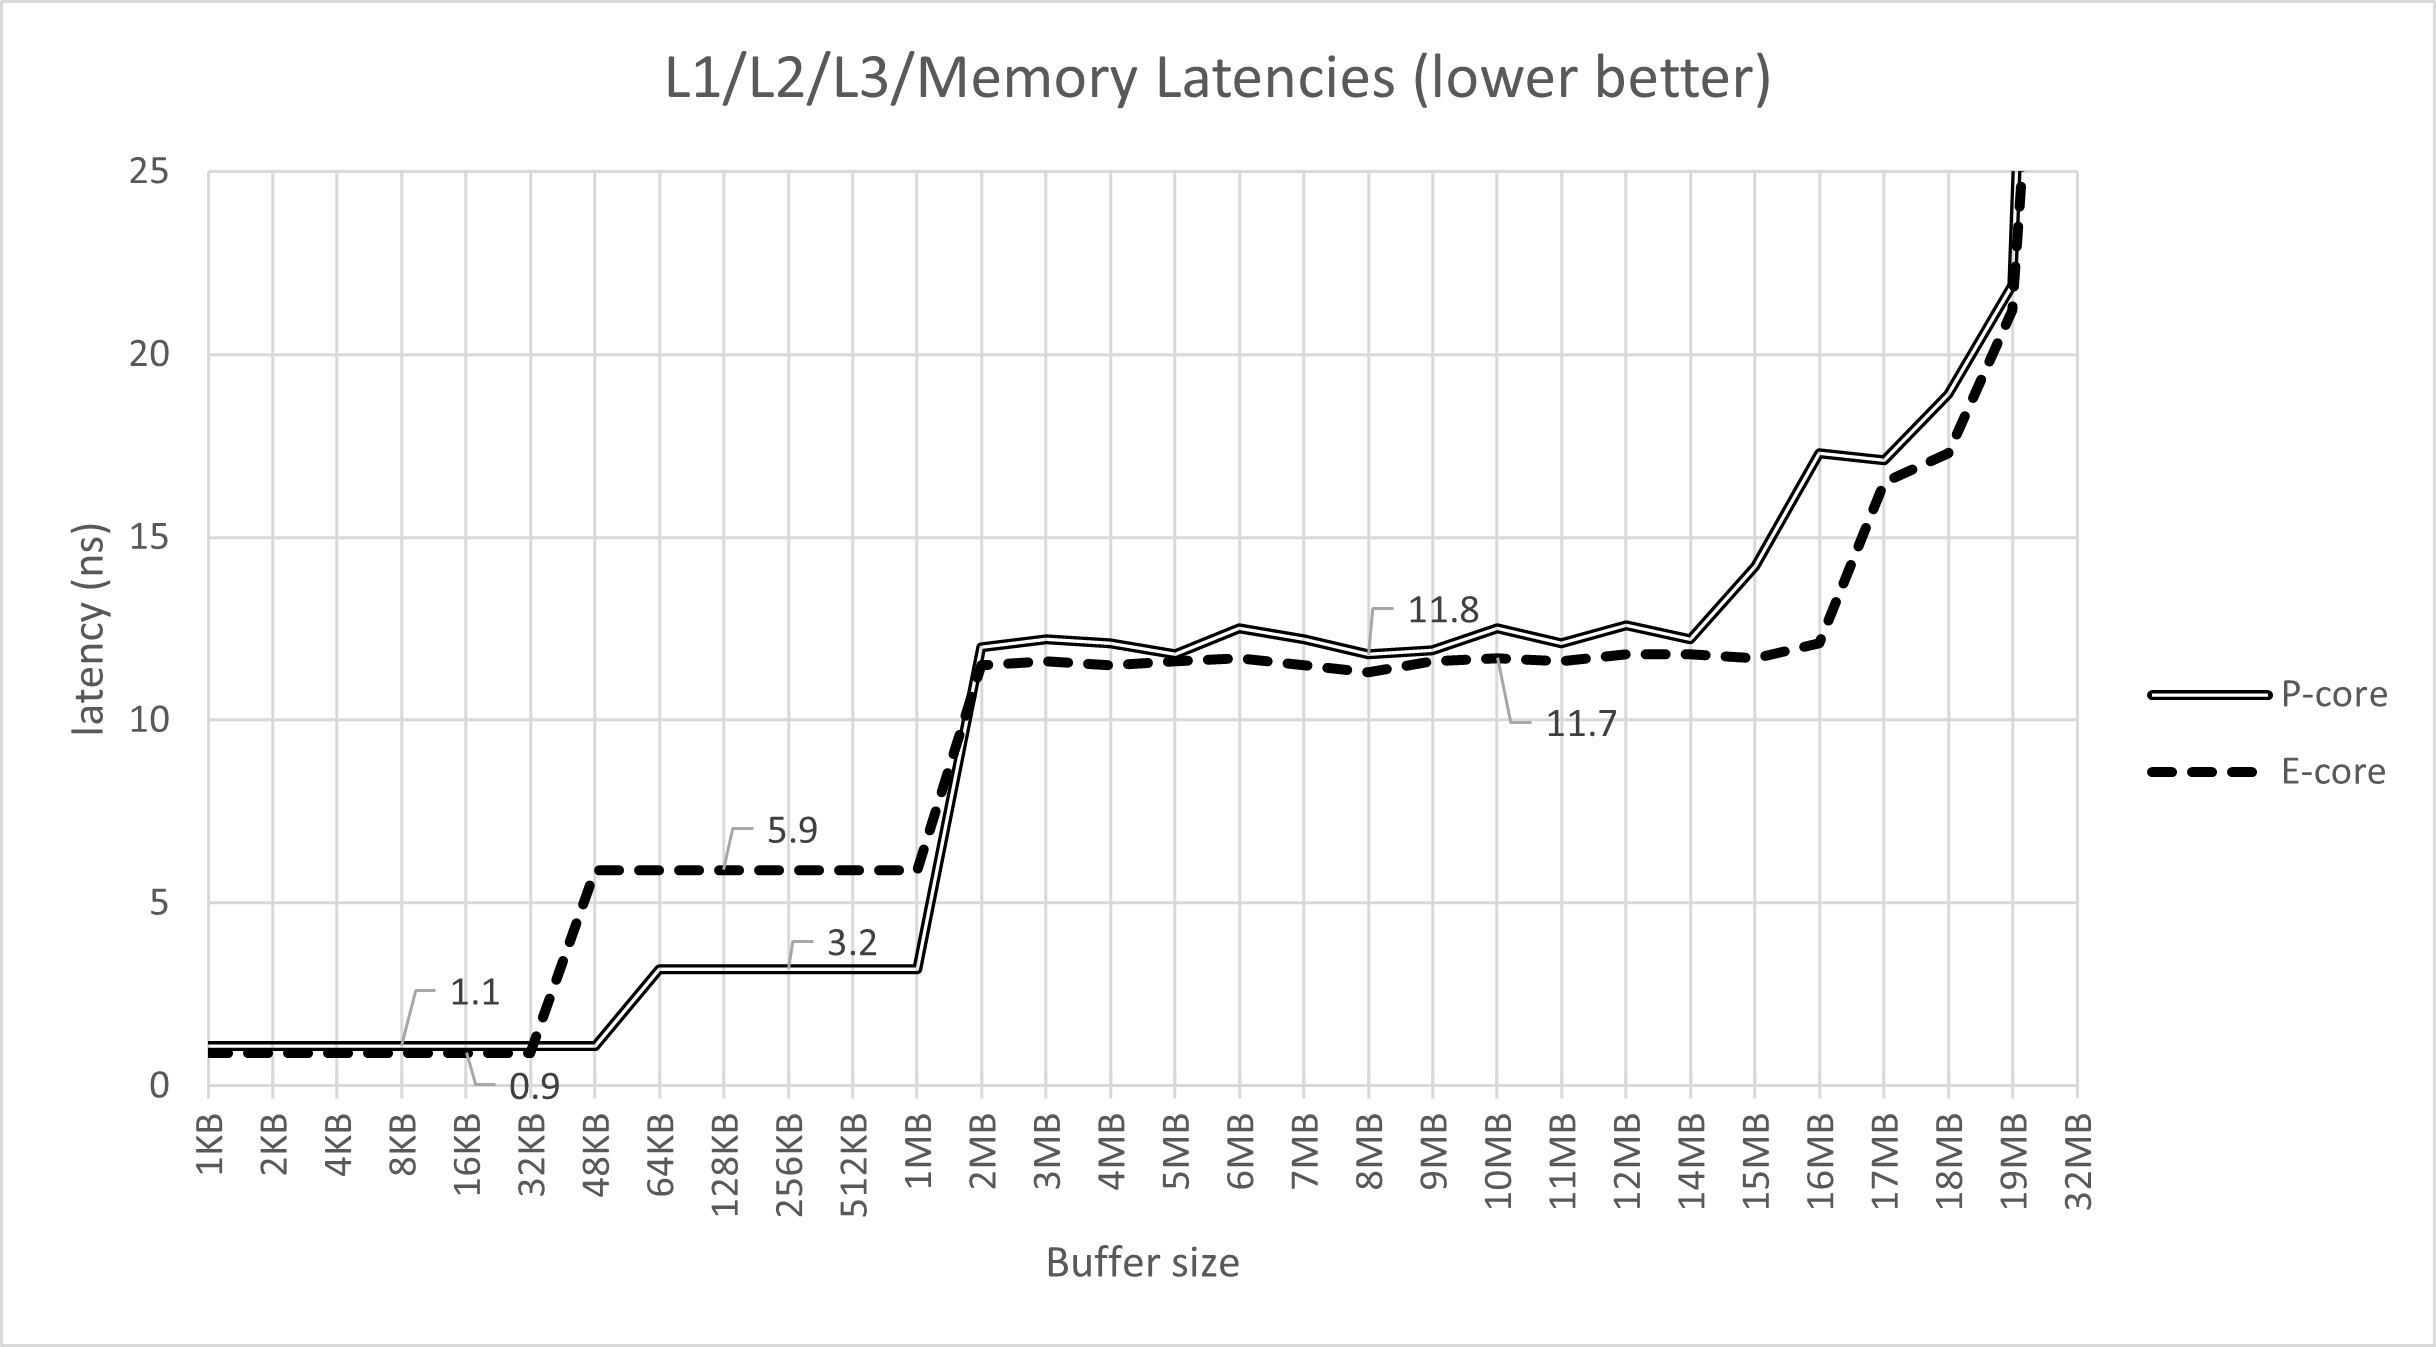
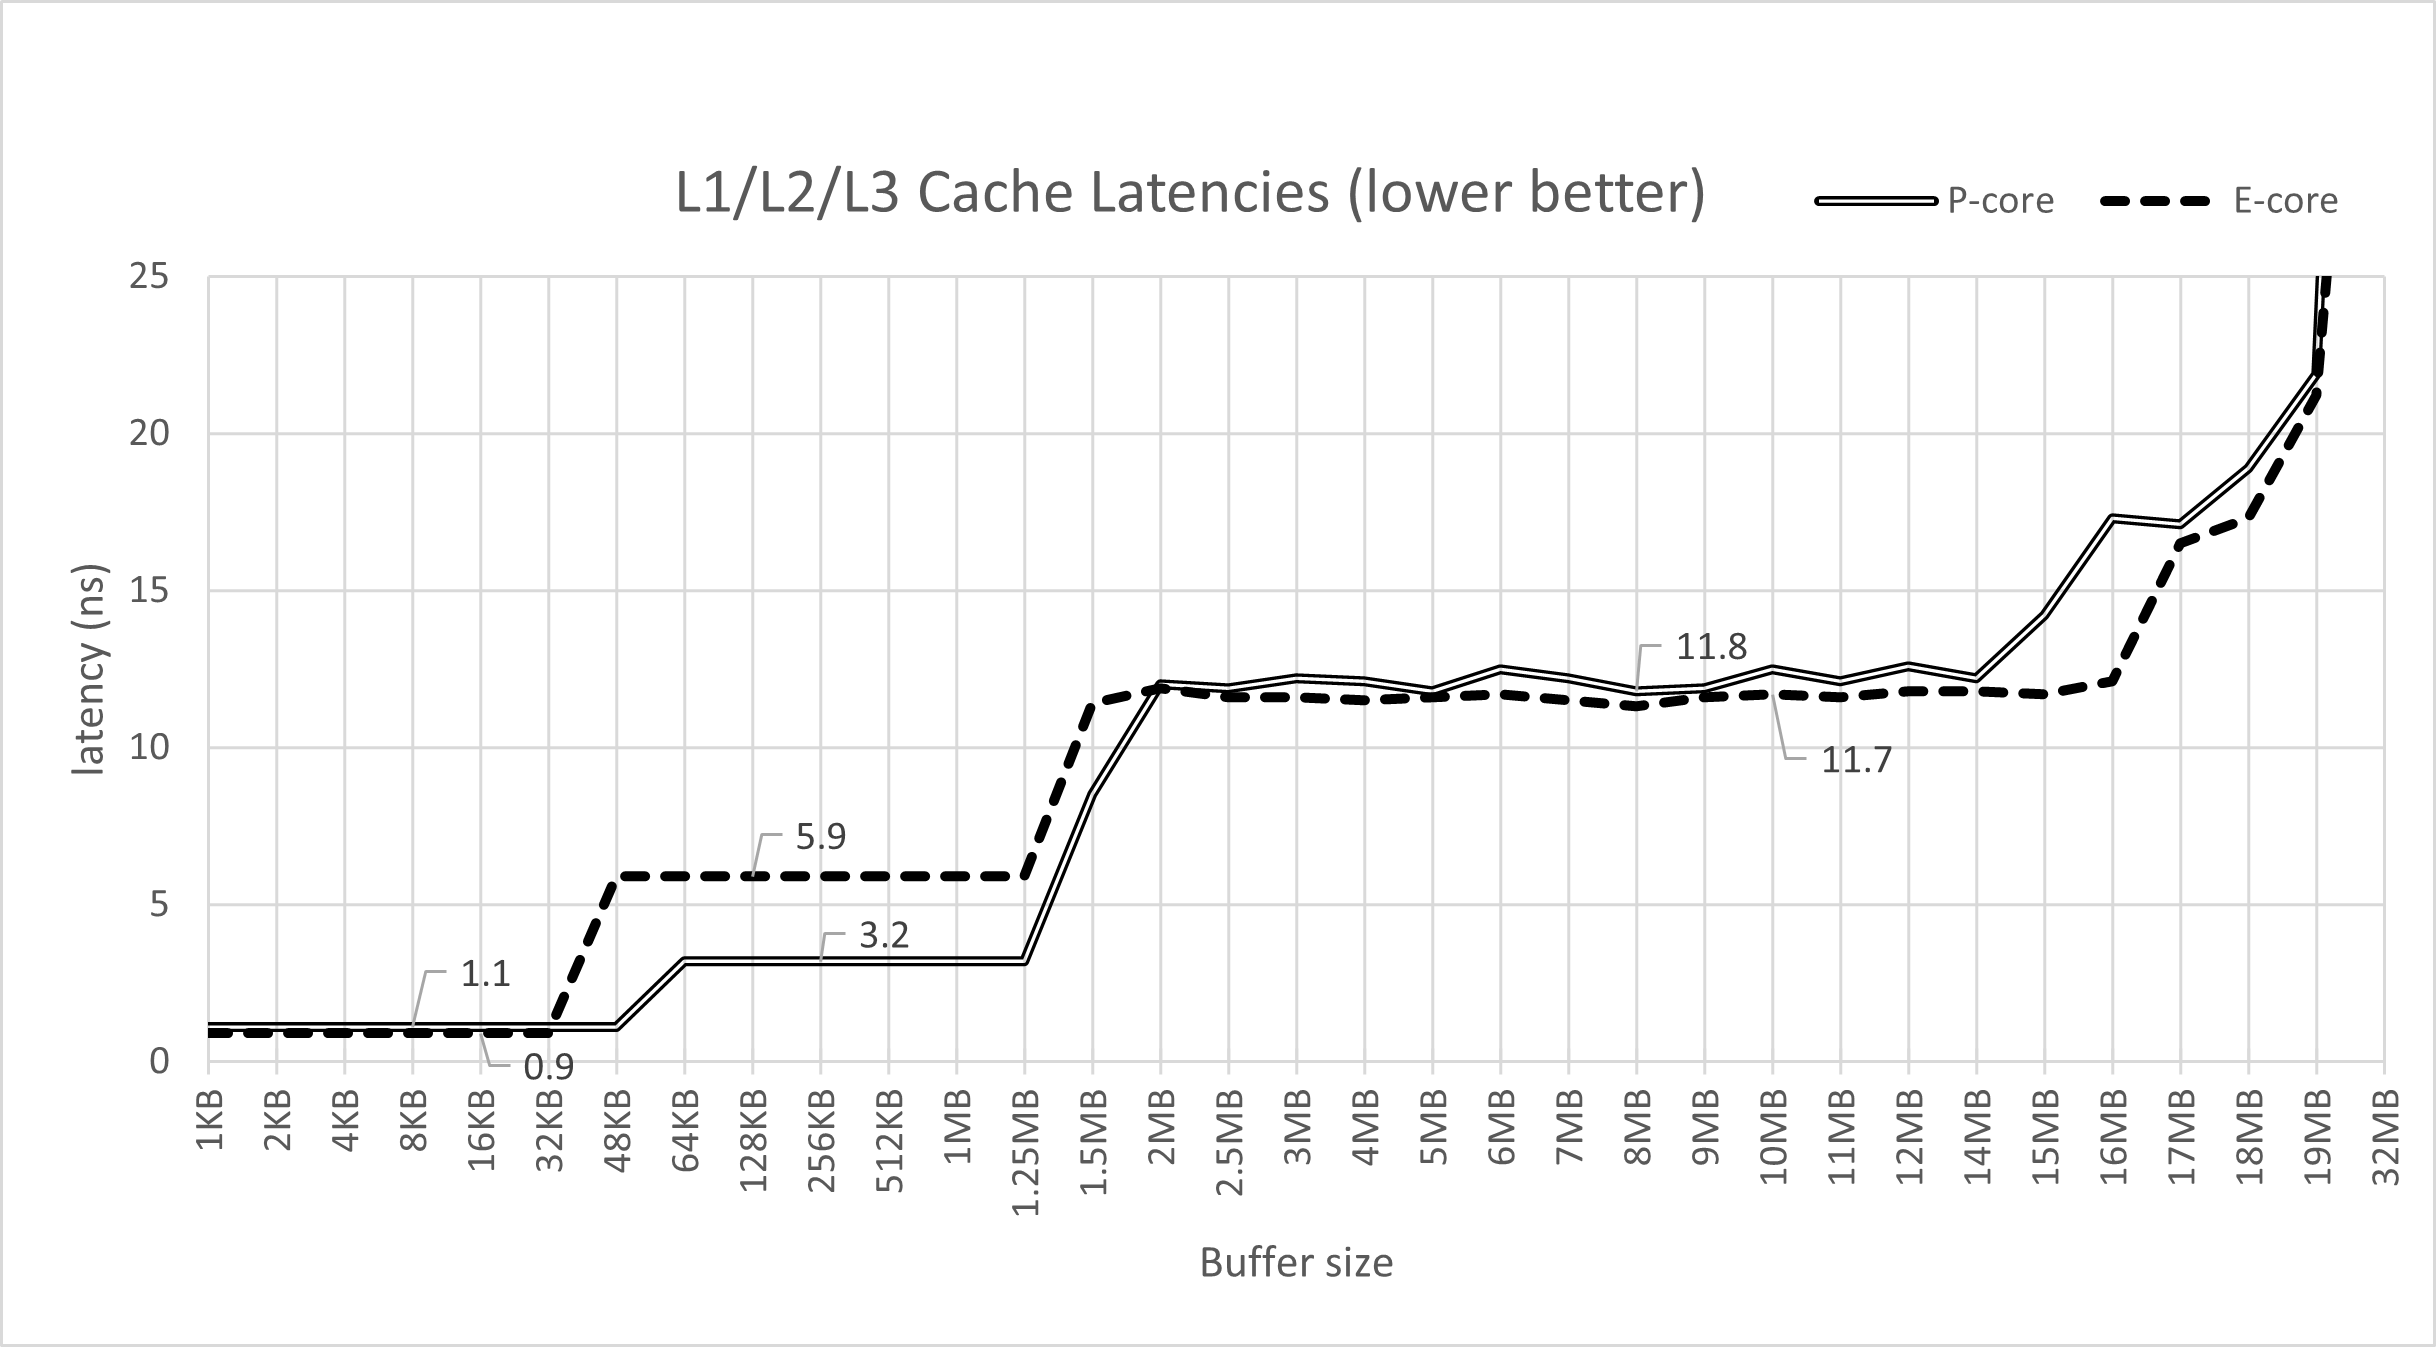
Working on mem lat and bw section

Changed region(s): [[0.0312, 0.1247, 0.9984, 0.9666], [0.2808, 0.0312, 0.7176, 0.0935]]

diff --git a/chapters/4-Terminology-And-Metrics/4-10 Memory Bandwidth.md b/chapters/4-Terminology-And-Metrics/4-10 Memory Bandwidth.md
@@ -6,20 +6,26 @@ One of the tools that can become helpful on x86 platforms is Intel Memory Latenc
 
 We will only focus on a subset of metrics, namely idle read latency and read bandwidth. Let's start with the read latency. Idle means that while we do the measurements, the system is idle. This will give us the minimum time required to fetch data from memory system components, but when the system is loaded by other "memory-hungry" applications, this latency increases as there may be more queueing for resources at various points. MLC measures idle latency by doing dependent loads (aka pointer chasing). A measuring thread allocates a buffer and initializes it such that each cache line (64-byte) is pointing to another line. By appropriately sizing the buffer, we can ensure that almost all the loads are hitting in certain level of cache or memory. 
 
-Our system under test is an Intel Alderlake box with Core i7-1260P CPU and 16GB DDR4 @ 2400 MT/s single channel memory. The processor has 4P (Performance) hyperthreaded and 8E (Efficient) cores. Every P-core has 48KB of L1d cache and 1.25MB of L2 cache. Every E-core has 32KB of L1d cache, four E-cores form a cluster that has access to a shared 2MB L2 cache. All cores in the system are backed by a 18MB L3-cache. If we use a 10MB buffer, we can be certain that repeated accesses to that buffer would miss in L2 but hit in L3.
-
-Here is the example command we use to measure 
+Our system under test is an Intel Alderlake box with Core i7-1260P CPU and 16GB DDR4 @ 2400 MT/s single channel memory. The processor has 4P (Performance) hyperthreaded and 8E (Efficient) cores. Every P-core has 48KB of L1d cache and 1.25MB of L2 cache. Every E-core has 32KB of L1d cache, four E-cores form a cluster that has access to a shared 2MB L2 cache. All cores in the system are backed by a 18MB L3-cache. If we use a 10MB buffer, we can be certain that repeated accesses to that buffer would miss in L2 but hit in L3. Here is the example `mlc` command:
 
 ```bash
 $ ./mlc --idle_latency -c0 -L -b10m
 Intel(R) Memory Latency Checker - v3.10
-Command line parameters: --idle_latency -c10 -L -b10240 
+Command line parameters: --idle_latency -c0 -L -b10m
 
 Using buffer size of 10.000MiB
 *** Unable to modify prefetchers (try executing 'modprobe msr')
 *** So, enabling random access for latency measurements
-Each iteration took 29.1 base frequency clocks (	11.7	ns)
+Each iteration took 31.1 base frequency clocks (	12.5	ns)
 ```
+
+The option `--idle_latency` measures read latency without loading the system. MLC has the `--loaded_latency` option to measure latency when there is memory traffic generated by other threads. The option `-c0` pins the measurement thread to logical CPU 0, which is on a P-core. The option `-L` enables large pages to limit TLB effects in our measurements. The option `-b10m` tells MLC to use a 10MB buffer, which will fit in L3 cache on our system.
+
+The chart on @fig:MemoryLatenciesCharts shows read latencies of L1, L2, and L3 caches. There are four different regions on the chart. The first region on the left from 1KB to 48KB buffer size corresponds to L1d cache, which is private to each physical core. We can observe 0.9ns latency for E-core and a slightly higher 1.1ns for P-core. Also, we can use this chart to confirm the cache sizes. Notice how E-core latency starts climbing after a buffer size goes above 32KB but E-core latency stays constant up to 48KB. That confirms that L1d cache size in E-core is 32KB, and in P-core it is 48KB.
+
+The second region shows the L2 cache latencies, which for E-core is almost twice higher than for P-core (5.9ns vs. 3.2ns). For P-core the latency increases after we cross 1.25MB buffer size, which is expected. But we expect E-core latency to stay the same until 2MB, which is not happening in our measurements.
+
+The third region from 2MB up to 14MB corresponds to L3 cache latency, which is roughly 12ns for both types of cores. The total size of L3 cache that is shared between all cores in the system is 18MB. Interestingly, we start seeing some unexpected dynamics starting from 15MB, not 18MB. Most likely it has to do with some accesses miss in L3 and require going to the main memory. The fourth region corresponds to memory latency, only the beginning of it is shown on the chart. After we cross the 18MB boundary, the latency climbes very steeply and starts to level off at 45ns for E-core and 90ns for P-core.
 
 ![L1/L2/L3 cache read latencies on Intel Core i7-1260P, measured with the mlc tool, large pages enabled.](../../img/terms-and-metrics/MemLatencies.png){#fig:MemoryLatenciesCharts width=100% }
 
@@ -30,6 +36,20 @@ TODO:
 - Give examples
 - Describe Intel mlc (works on Intel and AMD), give alternatives for ARM
 - Give output of mlc and comment it
+- Compare the output with maximums from Intel Advisor
+
+Using a similar technique we can measure bandwidth of various components of the memory hierarchy.
+
+![Block diagram of the memory hierarchy of Intel Core i7-1260P and external DDR4 memory.](../../img/terms-and-metrics/MemBandwidthAndLatenciesDiagram.png){#fig:MemBandwidthAndLatenciesDiagram width=100% }
+
+
+- Notice, that we measure bandwidth in GB/s, thus it also depends on the frequency at which cores are running. That's why in reality, those numbers may be significantly lower. For example, L1 bw for P-core is X, when running solely on the system at full Turbo frequency. But the L1 bw for P-core may drop to 0.75X, when the system is fully loaded.
+
+
+If you constantly analyze performance on a single platform, it is a good idea to memorize latencies and bandwidth of various components of the memory hierarchy or have them handy. It helps to establish the mental model for a system under test which will aid your further performance analysis.
+
+[^1]: Intel MLC tool - [https://www.intel.com/content/www/us/en/download/736633/intel-memory-latency-checker-intel-mlc.html](https://www.intel.com/content/www/us/en/download/736633/intel-memory-latency-checker-intel-mlc.html)
+
 
 ```bash
 Measuring Peak Injection Memory Bandwidths for the system
@@ -42,19 +62,3 @@ ALL Reads        :      34557.4
 1:1 Reads-Writes :      29376.2
 Stream-triad like:      31875.7
 ```
-
-
-
-Memory latency: P-core (89.7 ns), E-core (44.9 ns)
-
-Using similar technique we can measure bandwidth of various components of the memory hierarchy.
-
-![Block diagram of the memory hierarchy of Intel Core i7-1260P and external DDR4 memory.](../../img/terms-and-metrics/MemBandwidthAndLatenciesDiagram.png){#fig:MemBandwidthAndLatenciesDiagram width=100% }
-
-
-- Notice, that we measure bandwidth in GB/s, thus it also depends on the frequency at which cores are running. That's why in reality, those numbers may be significantly lower. For example, L1 bw for P-core is X, when running solely on the system at full Turbo frequency. But the L1 bw for P-core may drop to 0.75X, when the system is fully loaded.
-- Compare the output with maximums from Intel Advisor
-
-If you constantly analyze performance on a single platform, it is a good idea to memorize latencies and bandwidth of various components of the memory hierarchy or have them handy. It helps to establish the mental model for a system under test which will greatly aid your further performance analysis.
-
-[^1]: Intel MLC tool - [https://www.intel.com/content/www/us/en/download/736633/intel-memory-latency-checker-intel-mlc.html](https://www.intel.com/content/www/us/en/download/736633/intel-memory-latency-checker-intel-mlc.html)
